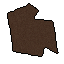
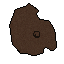
fixed bullet duplication / persistance wierdness and tweaked sprites

diff --git a/core/src/game/asteroids/PhysicsEngine.java b/core/src/game/asteroids/PhysicsEngine.java
@@ -45,7 +45,8 @@ public class PhysicsEngine {
 
 	public void drawEntities(SpriteBatch batch, AssetManager manager) {
 		for (int i = 0; i < entities.size(); i++) {
-			entities.get(i).draw(batch, manager);
+			if(!toDelete.contains(entities.get(i)))
+				entities.get(i).draw(batch, manager);
 		}
 	}
 
@@ -56,9 +57,9 @@ public class PhysicsEngine {
 			if (e instanceof Destructable)
 				((Destructable) e).onDestroy();
 
-			e.body.getWorld().destroyBody(e.body);
-			entities.remove(e);
 			toDelete.remove(e);
+			entities.remove(e);
+ 			e.body.getWorld().destroyBody(e.body);
 		}
 	}
 
@@ -70,5 +71,4 @@ public class PhysicsEngine {
 		if (!toDelete.contains(entity))
 			toDelete.add(entity);
 	}
-
 }

diff --git a/core/src/game/asteroids/entities/Player.java b/core/src/game/asteroids/entities/Player.java
@@ -67,13 +67,12 @@ public class Player extends Entity {
 		//Shooting
 		if (canShoot) {
 			if(Input.keyPressed(Input.SPACE)) {
-				engine.addEntity(new Bullet(engine, Bullet.BulletType.PLAYER, direction.nor().scl(bulletVelocity), body.getPosition()));
+				new Bullet(engine, Bullet.BulletType.PLAYER, direction.nor().scl(bulletVelocity), body.getPosition());
 				canShoot = false;
 			}
 		}else{
 			if(coolDownTimer == null)
 				coolDownTimer = Timer.startNew(shootCooldown, this::resetCoolDownTimer);
-
 		}
 
 		// Hyperjump

diff --git a/core/src/game/asteroids/screens/GameScreen.java b/core/src/game/asteroids/screens/GameScreen.java
@@ -78,6 +78,11 @@ public class GameScreen implements Screen {
 
 		engine.doPhysicsStep(delta);
 
+		Input.update();
+		Timer.updateTimers(delta);
+
+		engine.updateEntities(delta);
+
 		batch.begin();
 		{
 			batch.setProjectionMatrix(camera.combined);
@@ -87,11 +92,6 @@ public class GameScreen implements Screen {
 			GUI.draw(batch);
 		}
 		batch.end();
-
-		Input.update();
-		Timer.updateTimers(delta);
-
-		engine.updateEntities(delta);
 	}
 
 	@Override

diff --git a/core/src/game/asteroids/entities/Entity.java b/core/src/game/asteroids/entities/Entity.java
@@ -37,7 +37,6 @@ public abstract class Entity {
 		def.fixedRotation = fixedRotation;
 		this.body = engine.world.createBody(def);
 		this.body.setUserData(this);
-
 	}
 
 	public static void initialize(BodyEditorLoader _loader, AssetManager _assets) {
@@ -136,5 +135,4 @@ public abstract class Entity {
 	void delete() {
 		engine.deleteEntity(this);
 	}
-
 }

diff --git a/core/src/game/asteroids/utility/Timer.java b/core/src/game/asteroids/utility/Timer.java
@@ -32,7 +32,6 @@ public class Timer {
 	}
 
 	public static void updateTimers(float delta){
-		System.out.println(timers.size());
 		for(int i = 0; i < timers.size(); i++){
 			timers.get(i).update(delta);
 		}

diff --git a/core/src/game/asteroids/screens/MainScreen.java b/core/src/game/asteroids/screens/MainScreen.java
@@ -44,7 +44,6 @@ public class MainScreen implements Screen {
 		if (Input.keyPressed(Input.LCTRL)) {
 			game.setScreen(new GameScreen(game));
 		}
-
 	}
 
 	@Override
